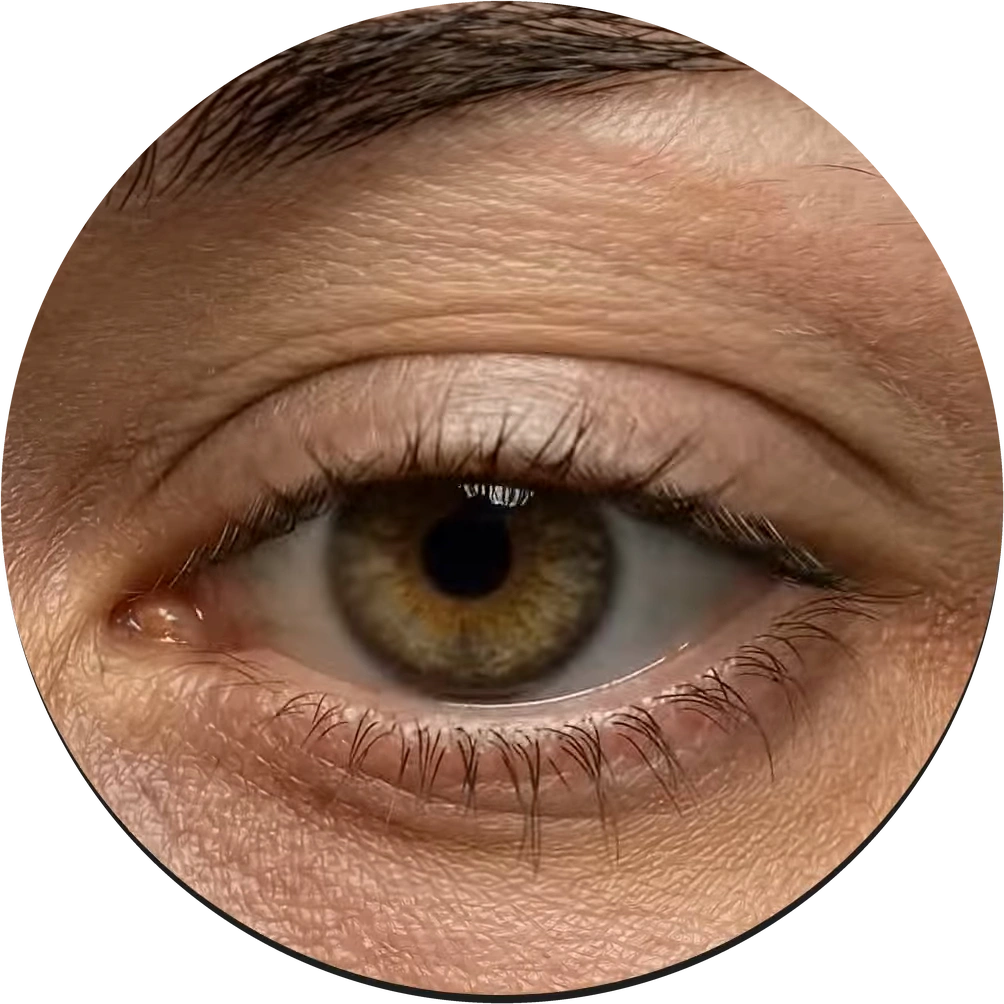
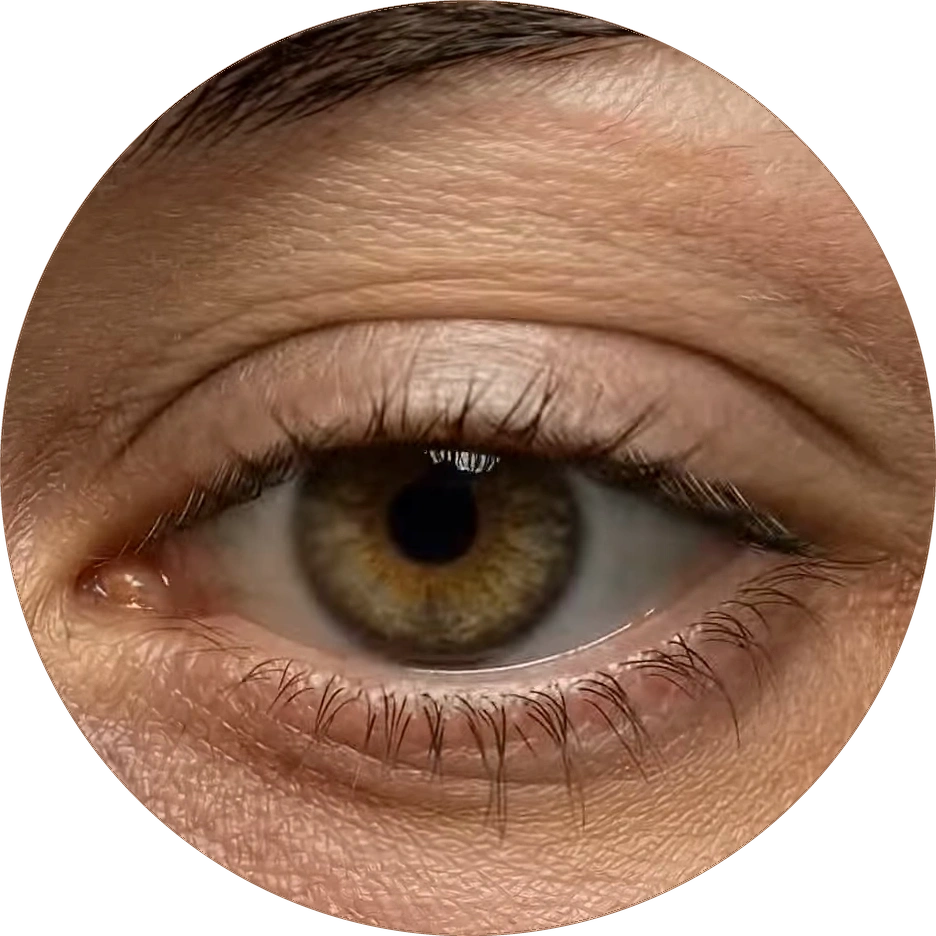
fix: remove dark edge vignette from eye asset and apply clean clip-path

diff --git a/src/components/IntroSequence/IntroSequence.css b/src/components/IntroSequence/IntroSequence.css
@@ -114,6 +114,7 @@
   user-select: none;
   -webkit-user-select: none;
   pointer-events: none;
+  transform: scale(1.04);
 }
 
 /* Central eye pulse & reveal animation during burst */
@@ -154,11 +155,15 @@
   width: min(54vmin, 540px);
   height: min(54vmin, 540px);
   border-radius: 50%;
+  clip-path: circle(49.2% at 50% 50%);
+  -webkit-clip-path: circle(49.2% at 50% 50%);
   object-fit: cover;
   pointer-events: none;
   user-select: none;
   -webkit-user-select: none;
   box-shadow: none;
+  border: none;
+  outline: none;
   transform: translate(calc(-50% + var(--tx)), calc(-50% + var(--ty))) scale(var(--scale, 1));
   opacity: 0;
   will-change: opacity;
